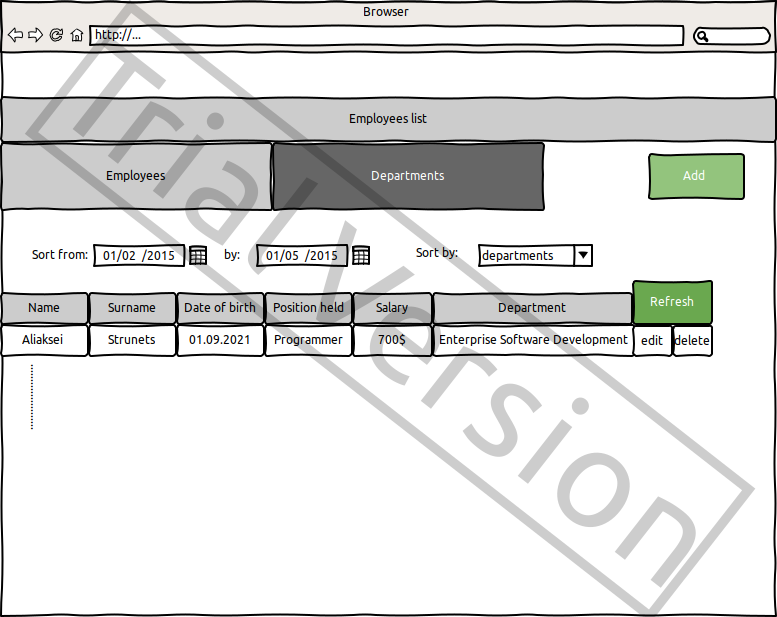
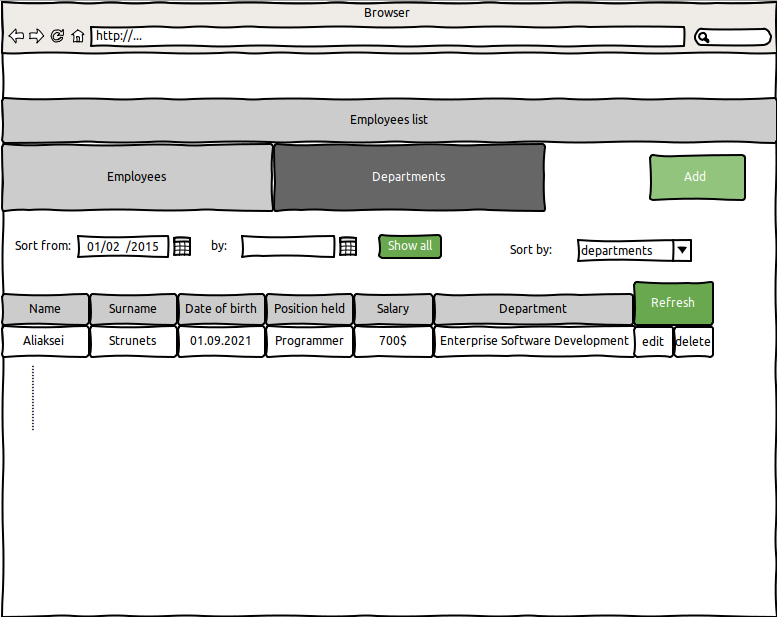
final fix

Changed region(s): [[0.0, 0.0, 1.0, 1.0], [0.7413, 0.6467, 0.7722, 0.6775]]

diff --git a/documentation/Software Requirements Specifications.md b/documentation/Software Requirements Specifications.md
@@ -39,11 +39,19 @@ Pic.1.1 View the list of employees.
 
 **Filtering by date:**
 
-- In the list of employees mode, the user sets a date filter and presses the refresh list button
+- In the list of employees mode, the user sets a date filter and presses the refresh list button;
+- If user sets a date only in cell - *Sort from:*, then application showed data about employees only with due date, if user sets a date also in the next cell - *by:*, then application show data about employees up to this date; 
+- If user sets a date only in cell -*by:*, then filter won't work;
+- The application will display a form to view the list of employees with updated data.
 
-**Filtering by data**
+**Filtering by departments:**
+- In the list of employees mode, the user sets a departments filter and presses the refresh list button;
+- The application will display a form to view the list of employees with updated data.
 
-- In the list of employees mode, the user sets a da
+**Show all**
+
+- In the list of employees mode, the user presses button *Show all*;
+- The application will display a form to view the list of employees about all data.
 
 ### 1.2 Add employee
 
@@ -91,9 +99,12 @@ Pic.1.1 View the list of employees.
 
 - User clicks the "Edit" button in the employee list view mode;
 - Application displays form to enter employee data;
-- User enters employee data and presses "Cancel" button;
-- Data don't save in data base, then list of employees records is displaying to user;
-- If the user select the menu item "Employees", "Departments", the data will not be saved to the database and the corresponding form with updated data will be opened.
+- User redact employee data and presses "Save" button;
+- Data is saved in data base, then list of employees records is displaying to user;
+- If the user select the menu item "Employees", "Departments", "Cancel", the data will not be saved to the database and the corresponding form with updated data will be opened.
+
+
+![Edit employee](/documentation/image/edit_employee.png)
 
 **Edit error scenario:**
 
@@ -111,7 +122,6 @@ Pic.1.1 View the list of employees.
 - Data don’t save in data base, then list of employee records is displaying to user.
 - If the user selects the menu item "Employees”, ”Departments”, the data will not be saved to the database and the corresponding form with updated data will be opened.
 
-![Edit employee](/documentation/image/edit_employee.png)
 
 **When editing a employee, the following details are entered:**
 
@@ -169,6 +179,7 @@ This mode is intended for viewing and editing the departments list.
 - The number of employees - how mane employees in this dapetment;
 - Head - head of department;
 - Location - where this department located.
+- Average salary - the average salary among the employees of the department
 
 **Filtering by location:**
 
@@ -214,7 +225,8 @@ This mode is intended for viewing and editing the departments list.
 - Department;
 - Number of employees - how many people work in the department;
 - Head -  head of department;
-- Location - where this department located.
+- Location - where this department located;
+- Average salary - the average salary among the employees of the department.
 
 **Constrains for data validation:**
 
@@ -222,6 +234,7 @@ This mode is intended for viewing and editing the departments list.
 - Number of employees - maximum length for 30 characters;
 - Head - maximum length for 45 characters;
 - Location - maximum length for 45 characters;
+- Average salary - maximum length for 45 characters.
 
 ### 2.3 Edit department
 
@@ -229,9 +242,9 @@ This mode is intended for viewing and editing the departments list.
 
 - User clicks the "Edit" button in the department list view mode;
 - Application displays form to enter department data;
-- User enters department data and presses "Cancel" button;
-- Data don't save in data base, then list of department records is displaying to user;
-- If the user select the menu item "Employees", "Departments", the data will not be saved to the database and the corresponding form with updated data will be opened.
+- User redact department data and presses "Save" button;
+- Data is saved in data base, then list of department records is displaying to user;
+- If the user select the menu item "Employees", "Departments", "Cancel", the data will not be saved to the database and the corresponding form with updated data will be opened.
 
 **Cancel operation scenario:**
 
